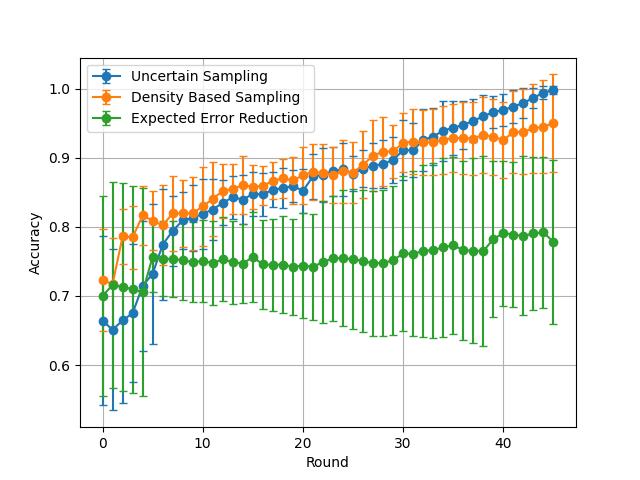
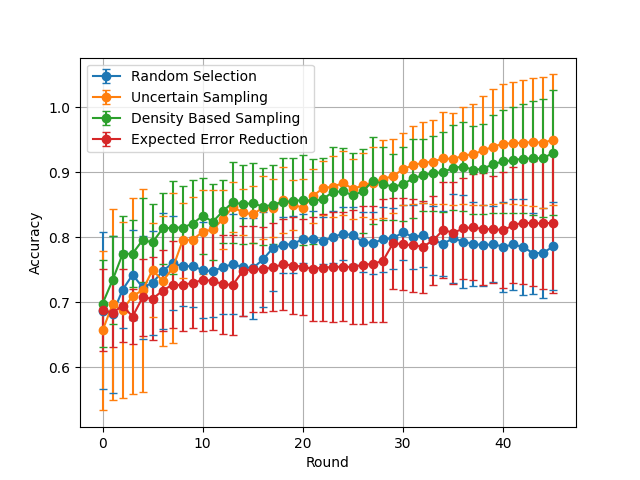
Finished data generation

Changed region(s): [[0.0625, 0.125, 0.9062, 0.875], [0.0625, 0.1562, 0.125, 0.25], [0.0625, 0.5938, 0.125, 0.6562]]

diff --git a/main.py b/main.py
@@ -45,16 +45,19 @@ def train(cycle, stop, simulator):
 
 if __name__ == "__main__":
     class_input_X, class_input_y = Parser.parse_csv("classification.csv", 2)
+    class_input_X,class_input_y = Parser.parse_csv("homework1/data_generation/uniform_0_10_100.csv",2)
+    # class_input_X, class_input_y = Parser.parse_csv(
+    #     "homework1/data_generation/cluster_0_10_100.csv", 2)
     stop = 50
     cycle = 10
     seed_num = 5
     # homework 0 plot
-    train_size, cross_validation_acc, prediction_acc = train(cycle, stop,
-                                                             ClassificationSimulation.ClassificationSimulation(
-                                                                 class_input_X,
-                                                                 class_input_y,
-                                                                 GaussianNB(),
-                                                                 seed_num))
+    # train_size, cross_validation_acc, prediction_acc = train(cycle, stop,
+    #                                                          ClassificationSimulation.ClassificationSimulation(
+    #                                                              class_input_X,
+    #                                                              class_input_y,
+    #                                                              GaussianNB(),
+    #                                                              seed_num))
     plt.figure()
     # plt.plot(range(len(train_size)), train_size)
     # plt.xlabel("Round")
@@ -68,10 +71,10 @@ if __name__ == "__main__":
     #              np.mean(cross_validation_acc, axis=0),
     #              yerr=np.std(cross_validation_acc, axis=0),
     #              label="5-Fold Cross-validation", fmt='-o', capsize=3)
-    plt.errorbar(range(len(prediction_acc[0])),
-                 np.mean(prediction_acc, axis=0),
-                 yerr=np.std(prediction_acc, axis=0),
-                 label="Random Selection", fmt='-o', capsize=3)
+    # plt.errorbar(range(len(prediction_acc[0])),
+    #              np.mean(prediction_acc, axis=0),
+    #              yerr=np.std(prediction_acc, axis=0),
+    #              label="Random Selection", fmt='-o', capsize=3)
     # plt.legend()
     # plt.xlabel("Round")
     # plt.ylabel("Accuracy")
@@ -155,16 +158,16 @@ if __name__ == "__main__":
     # #plt.show()
     # plt.savefig("images/dbscs_acc.png")
 
-    _,_,prediction_acc = train(cycle,stop,ExpectedErrorReductionSimulation(class_input_X,class_input_y,GaussianNB(),seed_num))
-    # plt.figure()
-    # plt.errorbar(range(len(cross_validation_acc[0])),
-    #              np.mean(cross_validation_acc, axis=0),
-    #              yerr=np.std(cross_validation_acc, axis=0),
-    #              label="5-Fold Cross-validation", fmt='-o', capsize=3)
-    plt.errorbar(range(len(prediction_acc[0])),
-                 np.mean(prediction_acc, axis=0),
-                 yerr=np.std(prediction_acc, axis=0),
-                 label="Expected Error Reduction", fmt='-o', capsize=3)
+    # _,_,prediction_acc = train(cycle,stop,ExpectedErrorReductionSimulation(class_input_X,class_input_y,GaussianNB(),seed_num))
+    # # plt.figure()
+    # # plt.errorbar(range(len(cross_validation_acc[0])),
+    # #              np.mean(cross_validation_acc, axis=0),
+    # #              yerr=np.std(cross_validation_acc, axis=0),
+    # #              label="5-Fold Cross-validation", fmt='-o', capsize=3)
+    # plt.errorbar(range(len(prediction_acc[0])),
+    #              np.mean(prediction_acc, axis=0),
+    #              yerr=np.std(prediction_acc, axis=0),
+    #              label="Expected Error Reduction", fmt='-o', capsize=3)
     # train_size, cross_validation_acc, prediction_acc = train(cycle, stop,
     #                                                          MellowUncertainSamplingClassification(
     #                                                              class_input_X,
@@ -179,5 +182,5 @@ if __name__ == "__main__":
     plt.xlabel("Round")
     plt.ylabel("Accuracy")
     plt.grid()
-    #plt.show()
-    plt.savefig("hw1_part1.png")
+    # plt.show()
+    plt.savefig("hw1_part3_1.png")

diff --git a/homework1/data_generation/Cluster.py b/homework1/data_generation/Cluster.py
@@ -1,0 +1,19 @@
+import numpy as np
+import math
+from sklearn.datasets import make_blobs
+from homework1.data_generation.Uniform import write_data_to_csv,generate_uniform_sample
+
+def generate_clustering_sample(r=(0,10), dim=2, s=100,labels=(1,2)):
+    sample_x, _ = make_blobs(s,centers=[(2.5,7.5),(7.5,2.5)],n_features=dim,cluster_std=2.5)
+    sample_y = []
+    for i in range(s):
+        sample_y.append([labels[0]] if sample_x[i][0]>sample_x[i][1] else [labels[1]])
+
+    d = np.concatenate((sample_x,sample_y),axis=1)
+    np.random.shuffle(d)
+    return d
+
+if __name__ == "__main__":
+    d = generate_clustering_sample()
+    print(d)
+    write_data_to_csv("cluster_0_10_100.csv",d)

diff --git a/homework1/data_generation/Uniform.py b/homework1/data_generation/Uniform.py
@@ -1,0 +1,23 @@
+import numpy as np
+import csv
+
+
+def generate_uniform_sample(r=(0,10), dim=2, s=100,labels=(1,2)):
+    samples = np.random.random_sample((s,dim))
+    y = []
+    for i in range(s):
+        y.append([labels[0]] if samples[i][0]>samples[i][1] else [labels[1]])
+    return np.concatenate((samples*(r[1]-r[0])+r[0],y),axis=1)
+
+
+def write_data_to_csv(filename, data, dim=2):
+    writer = csv.writer(open(filename,"w",newline=""))
+    header = ["x%d"%(d+1)for d in range(dim)]
+    header.append("y")
+    writer.writerow(header)
+    writer.writerows(data)
+
+if __name__ == "__main__":
+    d = generate_uniform_sample()
+    write_data_to_csv("uniform_0_10_100.csv",d)
+
